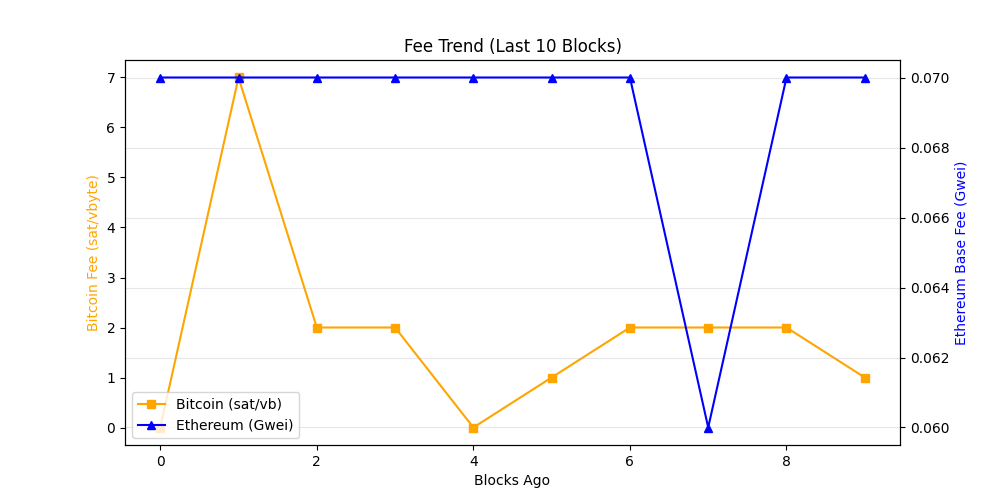
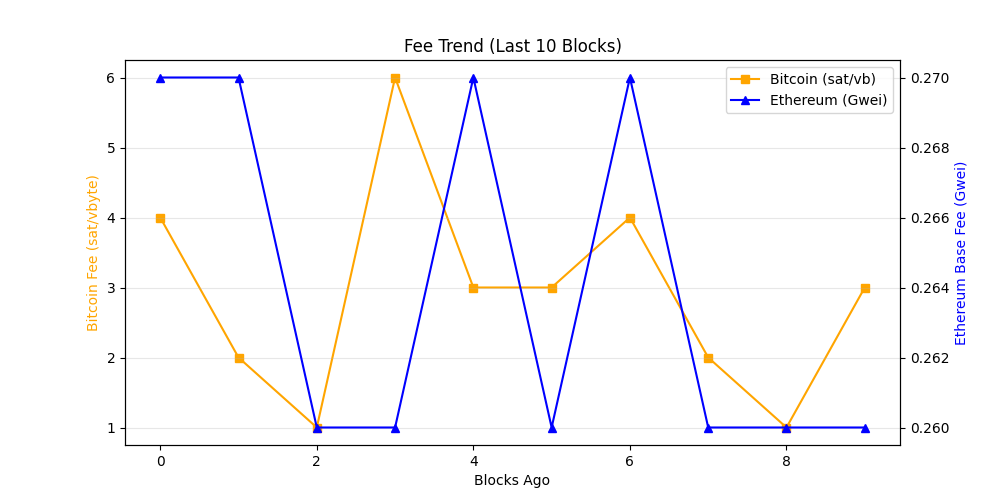
chore: update on-chain dashboard

diff --git a/README.md b/README.md
@@ -19,7 +19,7 @@ The README itself acts as the dashboard and is regenerated automatically on a 6 
 demonstrating a production-style, infrastructure-focused observability workflow rather
 than a traditional UI-driven approach.
 
-_Last updated: 2026-09-16 11:29 UTC_
+_Last updated: 2026-09-16 16:53 UTC_
 
 ## API Usage (GetBlock.io)
 - Calls used: **24**
@@ -27,8 +27,8 @@ _Last updated: 2026-09-16 11:29 UTC_
 ## Network Metrics
 | Chain | Block Height | TX Count | TPS (10 blk avg) | Block Util | Avg Fee |
 |------|-------------|----------|------------------|------------|---------|
-| Ethereum | 25989744 | 372 | 31.0 | 66.2% | 0.1 Gwei |
-| Bitcoin | 967273 | 5408 | 24.47 | 99.79% | N/A |
+| Ethereum | 25991353 | 333 | 27.75 | 47.55% | 0.3 Gwei |
+| Bitcoin | 967302 | 4121 | 5.33 | 99.79% | N/A |
 
 ## Visuals
 ### Transactions Trend
@@ -43,11 +43,11 @@ _Last updated: 2026-09-16 11:29 UTC_
 ## Whale Alerts (latest block)
 - Transaction hashes are truncated for readability.
 - Full hashes are available in `dashboards/metrics.json`
-- Bitcoin | 177.74 BTC | `3fe4f64d80a7…`
-- Bitcoin | 123.3 BTC | `c0cd75f89989…`
-- Bitcoin | 136.9 BTC | `5789f31c677d…`
-- Bitcoin | 135.65 BTC | `b9f17ce3ba95…`
-- Bitcoin | 2464.23 BTC | `baaa1685e68c…`
+- Bitcoin | 143.28 BTC | `2f00896af65d…`
+- Bitcoin | 657.62 BTC | `6098c55f594b…`
+- Bitcoin | 107.36 BTC | `6f17e2d6518d…`
+- Bitcoin | 487.08 BTC | `c9cf6961e343…`
+- Bitcoin | 130.0 BTC | `cdcc7d9f2e08…`
 
 ## Run locally
 
